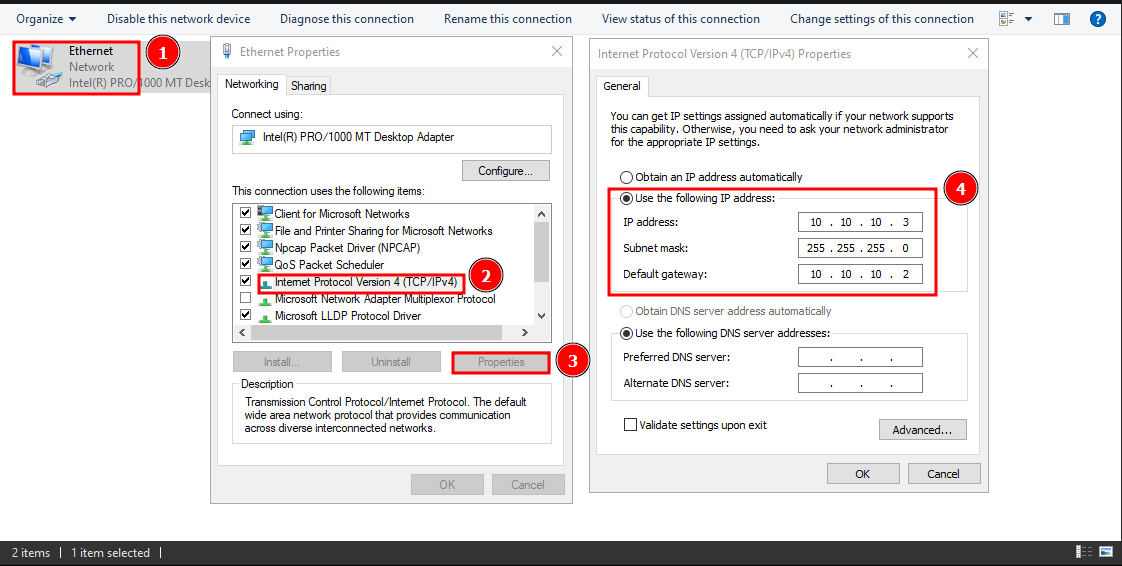
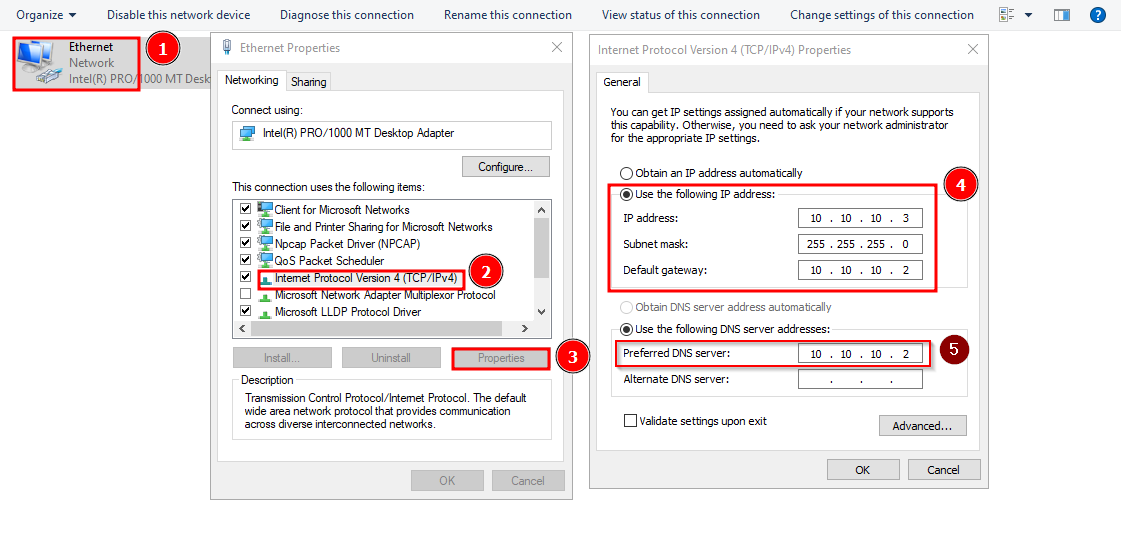
New Post and Error Corrections
Added wannacry -part 1 and corrected an error in lab setup guide.

Changed region(s): [[0.0, 0.0, 1.0, 1.0]]

diff --git a/content/malware/wannacry/dropper/index.md b/content/malware/wannacry/dropper/index.md
@@ -1,0 +1,273 @@
+---
+title: Wannacry - Part 1
+description: Analyzing the Dropper.
+toc: true
+authors: Alpharivs
+tags:
+  - malware
+  - analysis
+  - static
+  - dynamic
+  - reversing
+  - dropper
+categories: malware
+date: '2022-08-11'
+draft: false
+---
+## Introduction
+
+We will be analyzing a sample of the infamous ransomware "wannacry" and it's behavior and effects in our system, this is not meant to be an analysis of it's cryptographic functions nor a complete reverse engineering of the malware.
+
+We must remember that our objective as malware analysts is to provide information needed to detect, prevent and contain further intrusions that means determining exactly what happened and detecting all the infected machines and examining suspicious files in order to generate useful host/network based signatures to detect and prevent infections in our systems, when falling into a rabbit hole of reverse engineering one must remember what our main objective as analysts is.
+
+## Sample Details
+
+| Hashes | |
+| ---- | ---- |
+|md5 | DB349B97C37D22F5EA1D1841E3C89EB4 |
+
+Detection Results:
+![v_total](images/v_total.png)
+
+## Tools Used
+
+```text
+- VirtualBox
+- pedump
+- die (Detect it Easy)
+- PEstudio
+- ida64
+- Ghidra
+- Regshot
+- Procmon
+- Autoruns
+- Process Hacker
+- x32dbg
+- fakeDNS
+- InetSim
+- Caffeine
+```
+
+## Basic Static Analysis
+
+Let's begin by doing some basic analysis of the PE to see what can we learn examining it's headers and section data.
+
+### PE Properties
+```text
+remnux@remnux:~/malware/wannacry$ file wannacry.exe
+wannacry.exe: PE32 executable (GUI) Intel 80386, for MS Windows
+```
+The PE has some suspicious resources embedded in it so it's worth checking them out.
+```text
+=== SECTIONS ===
+(...snip...)
+  .rsrc      310000   35a454   35b000    32000     0        0     0        0  40000040  R-- IDATA
+
+=== RESOURCES ===
+FILE_OFFSET    CP  LANG     SIZE  TYPE          NAME
+    0x320a4  1252 0x409  3514368  R             #1831
+    0x38c0a4  1252 0x409      944  VERSION       #1
+```
+As seen in the image below the resource named "1831" is clearly another PE as it has the then PE file signature (hex 4d 5a, ascii MZ) and the DOS stub.
+![resource](images/resource.png)
+
+### Import Table Analysis
+
+The PE is not packed as imports are visible and numerous this allows us to make some educated guesses of it's functionality without resorting to dynamic analysis.
+
+#### Interesting and Suspicious Imports
+```text
+ADVAPI32.dll - StartServiceCtrlDispatcherA - Locating this function in malware tells that the function should be run as a service.
+ADVAPI32.dll - OpenSCManagerA - Any program that installs,modifies, or controls a service must call this function before any other service-manipulation function.
+ADVAPI32.dll - CreateServiceA - Malware uses CreateService for persistence, stealth, or to load kernel drivers.
+ADVAPI32.dll - CryptAcquireContextA - Initializes the use of Windows encryption.
+KERNEL32.dll - CreateFileA
+KERNEL32.dll - LoadResource - Loads a resource from a PE file into memory. 
+KERNEL32.dll - FindResourceA
+KERNEL32.dll - GetProcAddress - Used to import functions from other DLLs in addition to the functions imported in the PE file header.
+KERNEL32.dll - GetModuleHandleW - Locate and modify code in a loaded module or to search for a good location to inject code.
+KERNEL32.dll - GetModuleFileNameA - Malware can use this function to modify or copy files in the currently running process.
+KERNEL32.dll - GetTickCount - Sometimes used to gather timing information as an anti-debugging technique but is often added by the compiler.
+```
+The imports above already give us a hint of the malware's functionality, we can predict that it creates and starts a service, deals with encryption in some way, loads a resource and dynamically load some other functions that we can't currently see but are probably related to dropping the payload i.e. WriteFile
+
+With that information and the fact that there's a PE in the resource section it wouldn't be wild to say that it's functionality is to drop a payload somewhere in the targeted box.
+
+#### Networking Capabilities
+
+Based on the imported DLLs we see that the malware has Low-Level networking capabilities i.e. opening sockets.
+
+```text
+- 3 (closesocket)	ws2_32.dll
+- 16 (recv)	ws2_32.dll
+- 19 (send)	ws2_32.dll
+- 8 (htonl)	ws2_32.dll
+- 14 (ntohl)	ws2_32.dll
+- 115 (WSAStartup)	ws2_32.dll
+- 12 (inet_ntoa)	ws2_32.dll
+- 10 (ioctlsocket)	ws2_32.dll
+- 18 (select)	ws2_32.dll
+- 9 (htons)	ws2_32.dll
+- 23 (socket)	ws2_32.dll
+- 4 (connect)	ws2_32.dll
+- 11 (inet_addr)	ws2_32.dll
+```
+and it has also high-level capabilities , high-level capabilities have the advantage of blending in with regular traffic but the disadvantage that the User-Agent header must be manually provided providing us with the opportunity of extracting a potential network indicator for our detection signatures.
+```text
+WININET.dll - InternetOpenA	User-Agent, Initializes the high-level Internet access functions from WinINet,
+WININET.dll - InternetOpenUrlA
+```
+### Strings
+
+Analyzing the strings can algo give us very good indicators and hints for the functionality of the malware in this case we can see messages in different languages (very considerate!) and possible names of configuration files.
+```text
+b.wnry
+c.wnry
+1AgG
+msg/m_bulgarian.wnry
+"t=)
+msg/m_chinese (simplified).wnry
+"t=.|Vbq-
+msg/m_chinese (traditional).wnry
+"t=.
+msg/m_croatian.wnry
+msg/m_czech.wnry
+msg/m_danish.wnry
+msg/m_dutch.wnry
+msg/m_english.wnry
+```
+Some suspicious exe names.
+```
+taskdl.exe
+taskse.exe
+diskpart.exe
+```
+Probably a dynamically loaded DLL using LoadLibrary.
+```
+USER32.DLL
+```
+Weird strings that are good for creating signatures (Note:  even though they are local IPs they are defanged, good habits save lives!)
+```text
+Windows 2000 2195
+Windows 2000 5.0
+\\172[.]16[.]99[.]5\IPC$
+Windows 2000 2195
+Windows 2000 5.0
+\\192[.]168[.]56[.]20\IPC$
+kernel32.dll
+WanaCrypt0r
+Software\
+```
+Lot's of extensions names, probably used to identify which files to encrypt.
+```text
+(...snip...)
+.jpeg
+.vcd
+.iso
+.backup
+.zip
+(...snip...)
+```
+And finally a weird Url (spoiler alert, it's the infamous killswitch)
+```
+hxxp[://]www[.]iuqerfsodp9ifjaposdfjhgosurijfaewrwergwea[.]com
+```
+All those strings give us some really indicators that we can use to build up out detection signatures.
+
+## Dynamic Analysis
+
+Having performed our static analysis now it's time to see what this piece of malware does in action.
+
+### Killswitch On
+
+If we setup an internal network and redirect all dns queries to a box that we control (ass seen below using fakedns, and inetsim) we immediately see a query to the strange URL that we found earlier
+```bash
+remnux@remnux:~/malware/wannacry$ fakedns
+fakedns[INFO]: dom.query. 60 IN A 10.10.10.2
+fakedns[INFO]: Response: www[.]iuqerfsodp9ifjaposdfjhgosurijfaewrwergwea[.]com -> 10.10.10.2
+
+Inetsim report:
+2022-11-08 14:48:48  HTTP connection, method: GET, URL: hxxp[://]www[.]iuqerfsodp9ifjaposdfjhgosurijfaewrwergwea[.]com/
+```
+Interestingly that seems to prevent the malware from executing any further let's try to see whats going on under the hood.
+
+A quick way to reach the part of the code that makes the request is to search for the Xrefs to InternetOpenA. (which we know is being used based on our analysis)
+![kill_search](images/kill_search.png)
+
+That leads us to a function that ida64 has labeled WinMain, where we can see that our suspicious url being loaded as a parameter.
+![kill_function](images/kill_function.png)
+
+We can see the result of InterOpenUrlA being copied into the edi register which then is checked to see if it's value is 0.
+![kill_code](images/kill_code.png)
+
+InternetOpenUrlA returns a valid handle to the URL if the connection is successfully established, or NULL if the connection fails, so if the URL is found the value will be non 0 which means that the program is going to jump to loc_4081BC where we will meet a dead end in order to take the other path the URL must be unreachable so that function 408090 will be called.
+
+### Killswitch Off
+
+#### Running the Malware
+After making sure that the URL will not be reached the malware now after running wht malware we can see the following hellscape where our beloved files will be now encrypted, our wallpaper changed and a truly obnoxious window with the payment instructions has been spawned.
+![post_encryption](images/post_encryption.png)
+
+#### Dropping the Payload
+
+Procmon reports that the WriteFile operation has been called by wannacry.exe.
+```text
+wannacry.exe WriteFile C:\Windows\taskche.exe
+```
+The WriteFile function was dynamically loaded as we can see in the image below, that's why we couldn't see it before.
+
+![loading_functions](images/loading_functions.png)
+
+and then it's being called to write tasksche.exe to the disk as seen below.
+
+![write_resource](images/write_resource.png)
+
+Examining the call to WriteFile with x32dbg we can analyze what and where it writes, the second argument (eax register) is the the executable found in the resource section (shown in the dump) and the fourth argument (edx register shown below in the stack) is the location and name in which it will be written.
+
+#### Registry Changes
+
+Using RegShot we can get check the registry for modifications.
+```text
+----------------------------------
+Keys added: 21
+----------------------------------
+HKLM\SOFTWARE\WOW6432Node\WanaCrypt0r
+
+HKLM\SYSTEM\ControlSet001\Services\mssecsvc2.0
+HKLM\SYSTEM\ControlSet001\Services\wcjlbgmjfcfjhcv579
+
+HKLM\SYSTEM\CurrentControlSet\Services\mssecsvc2.0
+HKLM\SYSTEM\CurrentControlSet\Services\wcjlbgmjfcfjhcv579
+```
+It seems that a service has been created, we already guessed that based on the imports and we can confirm it by quickly debugging the PE and checking how it calls CreateService as seen below.
+
+![service_creation](images/service_creation.png)
+
+Wen can also see a value added to CurrentVersion\Run\ which is a common way in which malware achieves persistence.
+
+NOTE: We will later examine when analyzing the payload where that weird "wcjlbgmjfcfjhcv579" comes from.
+```text
+----------------------------------
+Values added: 47
+----------------------------------
+HKLM\SOFTWARE\WOW6432Node\Microsoft\Windows\CurrentVersion\Run\wcjlbgmjfcfjhcv579: ""C:\ProgramData\wcjlbgmjfcfjhcv579\tasksche.exe""
+HKLM\SOFTWARE\WOW6432Node\WanaCrypt0r\wd: "C:\ProgramData\wcjlbgmjfcfjhcv579"
+```
+Quickly checking autoruns confirms that indeed the malware achieves persistence by these means.
+![persistence](images/persistence.png)
+
+We can even see evidence of how it changed our beautiful wallpaper.
+```
+HKU\S-1-5-21-125203715-1897566060-139690607-1001\SOFTWARE\Microsoft\Windows\CurrentVersion\Explorer\Wallpapers\BackgroundHistoryPath0: "C:\Users\Euryale\Desktop\@WanaDecryptor@.bmp"
+```
+#### Running Processes
+Checking the running processes we can see the following.
+![process_running](images/process_running.png)
+
+Using Procmon we see that the dropper started the tasksche.exe process.
+![run_payload_arg](images/run_payload_arg.png)
+the process was launched with the /i argument, which could pretty mean install.
+
+In the next post we will analyze the "tasksche.exe" PE and solve some mysteries left like the weird random name and what does the /i argument does.
+
+Lux-Sit

diff --git a/content/malware/lab-setup-guide/index.md b/content/malware/lab-setup-guide/index.md
@@ -1,6 +1,6 @@
 ---
 title: Malware Analysis Network Setup Guide
-description: A guide for creating an internal network for malware analysis.
+description: A guide for creating an internal network for malware analysis with VirtualBox.
 toc: true
 authors: Alpharivs
 tags:
@@ -10,7 +10,7 @@ tags:
   - lab
   - virtualization
 categories: guide
-date: '2022-08-04'
+date: '2022-07-11'
 draft: false
 ---
 
@@ -78,12 +78,12 @@ Go to __Control Panel > Network and Sharing Center > Change Adapter Settings__ t
 
 - Right Click the interface and select properties.
 - Select Internet Protocol Version 4 and click Properties.
-- Manually configure the IP address, subnet mask and DHCP server.
+- Manually configure the IP address, subnet mask, DHCP server and the Preferred DNS Server.
 
 ![win_setup](images/win_setup.png)
 
 ## Conclusion
 
-And that's all, after all this setup network interactions coming from the infected Virtual Machine will go through the Analysis Machine while being completely isolated from your host's network, you can now analyze the traffic or even simulate responses to the malware requests :)
+And that's all, after all this setup network interactions coming from the infected Virtual Machine will go through the Analysis Machine while being completely isolated from your host's network, you can now analyze the traffic or even simulate responses to the malware requests using tools like FakeDNS and inetsim :)
 
 Happy Hunting!
